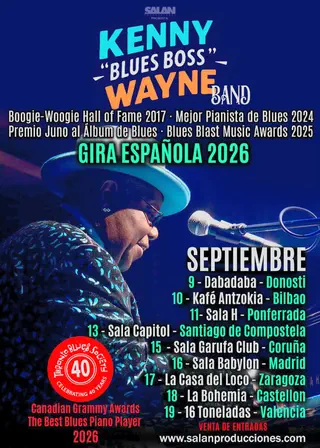
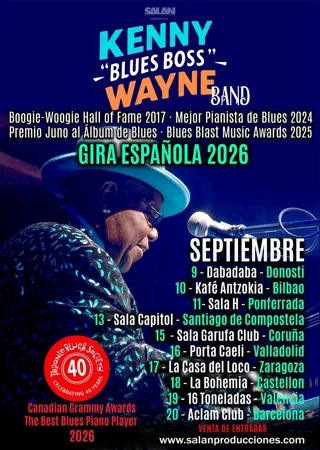
Update Kenny Blues Boss Wayne tour poster

diff --git a/conciertos/2026/kenny-blues-boss-wayne-gira-espana-2026/index.html b/conciertos/2026/kenny-blues-boss-wayne-gira-espana-2026/index.html
@@ -9,14 +9,14 @@
   <meta name="theme-color" content="#0a0a0a">
   <meta name="referrer" content="strict-origin-when-cross-origin">
   <title>Kenny "Blues Boss" Wayne Band – Gira España 2026 – Salan Producciones</title>
-    <meta name="description" content="Kenny 'Blues Boss' Wayne Band en gira por España en septiembre 2026. Boogie-Woogie Hall of Fame 2017 · Mejor Pianista de Blues 2024. Donosti, Bilbao, Madrid, Valencia y más.">
+    <meta name="description" content="Kenny 'Blues Boss' Wayne Band en gira por España en septiembre 2026. Boogie-Woogie Hall of Fame 2017 · Mejor Pianista de Blues 2024. Donosti, Bilbao, Valladolid, Valencia, Barcelona y más.">
     <meta property="og:url" content="https://www.salanproducciones.com/conciertos/2026/kenny-blues-boss-wayne-gira-espana-2026/">
     <meta property="og:title" content="Kenny 'Blues Boss' Wayne Band – Gira España 2026">
-    <meta property="og:description" content="Septiembre 2026 · 9 ciudades · Donosti, Bilbao, Ponferrada, Santiago, Coruña, Madrid, Zaragoza, Castellón, Valencia">
+    <meta property="og:description" content="Septiembre 2026 · 10 ciudades · Donosti, Bilbao, Ponferrada, Santiago, Coruña, Valladolid, Zaragoza, Castellón, Valencia, Barcelona">
     <meta property="og:image" content="https://www.salanproducciones.com/conciertos/2026/kenny-blues-boss-wayne-gira-espana-2026/poster-1024.webp">
     <meta name="twitter:card" content="summary_large_image">
     <meta name="twitter:title" content="Kenny 'Blues Boss' Wayne Band – Gira España 2026">
-    <meta name="twitter:description" content="Septiembre 2026 · 9 ciudades · Donosti, Bilbao, Ponferrada, Santiago, Coruña, Madrid, Zaragoza, Castellón, Valencia">
+    <meta name="twitter:description" content="Septiembre 2026 · 10 ciudades · Donosti, Bilbao, Ponferrada, Santiago, Coruña, Valladolid, Zaragoza, Castellón, Valencia, Barcelona">
     <meta name="twitter:image" content="https://www.salanproducciones.com/conciertos/2026/kenny-blues-boss-wayne-gira-espana-2026/poster-1024.webp">
     <script type="application/ld+json">
     [
@@ -24,7 +24,7 @@
             "@context": "https://schema.org",
             "@type": "MusicEvent",
             "name": "Kenny 'Blues Boss' Wayne Band en Donosti",
-            "description": "Kenny Blues Boss Wayne Band en gira por Espana en septiembre 2026. Boogie-Woogie Hall of Fame 2017, Mejor Pianista de Blues 2024. Donosti, Bilbao, Madrid, Valencia y mas ciudades.",
+            "description": "Kenny Blues Boss Wayne Band en gira por Espana en septiembre 2026. Boogie-Woogie Hall of Fame 2017, Mejor Pianista de Blues 2024. Donosti, Bilbao, Valladolid, Valencia, Barcelona y mas ciudades.",
             "startDate": "2026-09-09T21:00:00+01:00",
             "endDate": "2026-09-09T23:30:00+01:00",
             "eventStatus": "https://schema.org/EventScheduled",
@@ -39,7 +39,7 @@
             "@context": "https://schema.org",
             "@type": "MusicEvent",
             "name": "Kenny 'Blues Boss' Wayne Band en Bilbao",
-            "description": "Kenny Blues Boss Wayne Band en gira por Espana en septiembre 2026. Boogie-Woogie Hall of Fame 2017, Mejor Pianista de Blues 2024. Donosti, Bilbao, Madrid, Valencia y mas ciudades.",
+            "description": "Kenny Blues Boss Wayne Band en gira por Espana en septiembre 2026. Boogie-Woogie Hall of Fame 2017, Mejor Pianista de Blues 2024. Donosti, Bilbao, Valladolid, Valencia, Barcelona y mas ciudades.",
             "startDate": "2026-09-10T21:00:00+01:00",
             "endDate": "2026-09-10T23:30:00+01:00",
             "eventStatus": "https://schema.org/EventScheduled",
@@ -54,7 +54,7 @@
             "@context": "https://schema.org",
             "@type": "MusicEvent",
             "name": "Kenny 'Blues Boss' Wayne Band en Ponferrada",
-            "description": "Kenny Blues Boss Wayne Band en gira por Espana en septiembre 2026. Boogie-Woogie Hall of Fame 2017, Mejor Pianista de Blues 2024. Donosti, Bilbao, Madrid, Valencia y mas ciudades.",
+            "description": "Kenny Blues Boss Wayne Band en gira por Espana en septiembre 2026. Boogie-Woogie Hall of Fame 2017, Mejor Pianista de Blues 2024. Donosti, Bilbao, Valladolid, Valencia, Barcelona y mas ciudades.",
             "startDate": "2026-09-11T21:00:00+01:00",
             "endDate": "2026-09-11T23:30:00+01:00",
             "eventStatus": "https://schema.org/EventScheduled",
@@ -69,7 +69,7 @@
             "@context": "https://schema.org",
             "@type": "MusicEvent",
             "name": "Kenny 'Blues Boss' Wayne Band en Santiago de Compostela",
-            "description": "Kenny Blues Boss Wayne Band en gira por Espana en septiembre 2026. Boogie-Woogie Hall of Fame 2017, Mejor Pianista de Blues 2024. Donosti, Bilbao, Madrid, Valencia y mas ciudades.",
+            "description": "Kenny Blues Boss Wayne Band en gira por Espana en septiembre 2026. Boogie-Woogie Hall of Fame 2017, Mejor Pianista de Blues 2024. Donosti, Bilbao, Valladolid, Valencia, Barcelona y mas ciudades.",
             "startDate": "2026-09-13T21:00:00+01:00",
             "endDate": "2026-09-13T23:30:00+01:00",
             "eventStatus": "https://schema.org/EventScheduled",
@@ -84,7 +84,7 @@
             "@context": "https://schema.org",
             "@type": "MusicEvent",
             "name": "Kenny 'Blues Boss' Wayne Band en A Coruña",
-            "description": "Kenny Blues Boss Wayne Band en gira por Espana en septiembre 2026. Boogie-Woogie Hall of Fame 2017, Mejor Pianista de Blues 2024. Donosti, Bilbao, Madrid, Valencia y mas ciudades.",
+            "description": "Kenny Blues Boss Wayne Band en gira por Espana en septiembre 2026. Boogie-Woogie Hall of Fame 2017, Mejor Pianista de Blues 2024. Donosti, Bilbao, Valladolid, Valencia, Barcelona y mas ciudades.",
             "startDate": "2026-09-15T21:00:00+01:00",
             "endDate": "2026-09-15T23:30:00+01:00",
             "eventStatus": "https://schema.org/EventScheduled",
@@ -98,13 +98,13 @@
         {
             "@context": "https://schema.org",
             "@type": "MusicEvent",
-            "name": "Kenny 'Blues Boss' Wayne Band en Madrid",
-            "description": "Kenny Blues Boss Wayne Band en gira por Espana en septiembre 2026. Boogie-Woogie Hall of Fame 2017, Mejor Pianista de Blues 2024. Donosti, Bilbao, Madrid, Valencia y mas ciudades.",
+            "name": "Kenny 'Blues Boss' Wayne Band en Valladolid",
+            "description": "Kenny Blues Boss Wayne Band en gira por Espana en septiembre 2026. Boogie-Woogie Hall of Fame 2017, Mejor Pianista de Blues 2024. Donosti, Bilbao, Valladolid, Valencia, Barcelona y mas ciudades.",
             "startDate": "2026-09-16T21:00:00+01:00",
             "endDate": "2026-09-16T23:30:00+01:00",
             "eventStatus": "https://schema.org/EventScheduled",
             "eventAttendanceMode": "https://schema.org/OfflineEventAttendanceMode",
-            "location": { "@type": "Place", "name": "Sala Babylon", "address": { "@type": "PostalAddress", "addressLocality": "Madrid", "addressRegion": "Comunidad de Madrid", "addressCountry": "ES" } },
+            "location": { "@type": "Place", "name": "Porta Caeli", "address": { "@type": "PostalAddress", "addressLocality": "Valladolid", "addressRegion": "Castilla y León", "addressCountry": "ES" } },
             "image": "https://www.salanproducciones.com/conciertos/2026/kenny-blues-boss-wayne-gira-espana-2026/poster-1024.webp",
             "organizer": { "@type": "Organization", "name": "Salan Producciones", "url": "https://salanproducciones.com" },
             "performer": { "@type": "MusicGroup", "name": "Kenny 'Blues Boss' Wayne Band" },
@@ -114,7 +114,7 @@
             "@context": "https://schema.org",
             "@type": "MusicEvent",
             "name": "Kenny 'Blues Boss' Wayne Band en Zaragoza",
-            "description": "Kenny Blues Boss Wayne Band en gira por Espana en septiembre 2026. Boogie-Woogie Hall of Fame 2017, Mejor Pianista de Blues 2024. Donosti, Bilbao, Madrid, Valencia y mas ciudades.",
+            "description": "Kenny Blues Boss Wayne Band en gira por Espana en septiembre 2026. Boogie-Woogie Hall of Fame 2017, Mejor Pianista de Blues 2024. Donosti, Bilbao, Valladolid, Valencia, Barcelona y mas ciudades.",
             "startDate": "2026-09-17T21:00:00+01:00",
             "endDate": "2026-09-17T23:30:00+01:00",
             "eventStatus": "https://schema.org/EventScheduled",
@@ -129,7 +129,7 @@
             "@context": "https://schema.org",
             "@type": "MusicEvent",
             "name": "Kenny 'Blues Boss' Wayne Band en Castellón",
-            "description": "Kenny Blues Boss Wayne Band en gira por Espana en septiembre 2026. Boogie-Woogie Hall of Fame 2017, Mejor Pianista de Blues 2024. Donosti, Bilbao, Madrid, Valencia y mas ciudades.",
+            "description": "Kenny Blues Boss Wayne Band en gira por Espana en septiembre 2026. Boogie-Woogie Hall of Fame 2017, Mejor Pianista de Blues 2024. Donosti, Bilbao, Valladolid, Valencia, Barcelona y mas ciudades.",
             "startDate": "2026-09-18T21:00:00+01:00",
             "endDate": "2026-09-18T23:30:00+01:00",
             "eventStatus": "https://schema.org/EventScheduled",
@@ -144,12 +144,27 @@
             "@context": "https://schema.org",
             "@type": "MusicEvent",
             "name": "Kenny 'Blues Boss' Wayne Band en Valencia",
-            "description": "Kenny Blues Boss Wayne Band en gira por Espana en septiembre 2026. Boogie-Woogie Hall of Fame 2017, Mejor Pianista de Blues 2024. Donosti, Bilbao, Madrid, Valencia y mas ciudades.",
+            "description": "Kenny Blues Boss Wayne Band en gira por Espana en septiembre 2026. Boogie-Woogie Hall of Fame 2017, Mejor Pianista de Blues 2024. Donosti, Bilbao, Valladolid, Valencia, Barcelona y mas ciudades.",
             "startDate": "2026-09-19T21:00:00+01:00",
             "endDate": "2026-09-19T23:30:00+01:00",
             "eventStatus": "https://schema.org/EventScheduled",
             "eventAttendanceMode": "https://schema.org/OfflineEventAttendanceMode",
             "location": { "@type": "Place", "name": "16 Toneladas", "address": { "@type": "PostalAddress", "addressLocality": "Valencia", "addressRegion": "Comunitat Valenciana", "addressCountry": "ES" } },
+            "image": "https://www.salanproducciones.com/conciertos/2026/kenny-blues-boss-wayne-gira-espana-2026/poster-1024.webp",
+            "organizer": { "@type": "Organization", "name": "Salan Producciones", "url": "https://salanproducciones.com" },
+            "performer": { "@type": "MusicGroup", "name": "Kenny 'Blues Boss' Wayne Band" },
+            "offers": { "@type": "Offer", "url": "https://tickety.es/entity/kenny-blues-boss-wayne?utm_source=landing&utm_medium=web&utm_campaign=kenny-blues-boss-wayne-gira-espana-2026", "price": "27.25", "priceCurrency": "EUR", "availability": "https://schema.org/InStock", "validFrom": "2026-01-01T00:00:00+01:00" }
+        },
+        {
+            "@context": "https://schema.org",
+            "@type": "MusicEvent",
+            "name": "Kenny 'Blues Boss' Wayne Band en Barcelona",
+            "description": "Kenny Blues Boss Wayne Band en gira por Espana en septiembre 2026. Boogie-Woogie Hall of Fame 2017, Mejor Pianista de Blues 2024. Donosti, Bilbao, Valladolid, Valencia, Barcelona y mas ciudades.",
+            "startDate": "2026-09-20T21:00:00+01:00",
+            "endDate": "2026-09-20T23:30:00+01:00",
+            "eventStatus": "https://schema.org/EventScheduled",
+            "eventAttendanceMode": "https://schema.org/OfflineEventAttendanceMode",
+            "location": { "@type": "Place", "name": "Aclam Club", "address": { "@type": "PostalAddress", "addressLocality": "Barcelona", "addressRegion": "Cataluña", "addressCountry": "ES" } },
             "image": "https://www.salanproducciones.com/conciertos/2026/kenny-blues-boss-wayne-gira-espana-2026/poster-1024.webp",
             "organizer": { "@type": "Organization", "name": "Salan Producciones", "url": "https://salanproducciones.com" },
             "performer": { "@type": "MusicGroup", "name": "Kenny 'Blues Boss' Wayne Band" },
@@ -361,7 +376,7 @@
 
         <!-- Poster -->
         <div class="tour-poster">
-            <img src="poster-768.webp" srcset="poster-320.webp 320w, poster-480.webp 480w, poster-768.webp 768w" sizes="(max-width: 768px) 92vw, 420px" alt="Kenny 'Blues Boss' Wayne Band – Gira España Septiembre 2026" loading="eager" width="814" height="1140" fetchpriority="high" decoding="async">
+            <img src="poster-768.webp" srcset="poster-320.webp 320w, poster-480.webp 480w, poster-768.webp 768w" sizes="(max-width: 768px) 92vw, 420px" alt="Kenny 'Blues Boss' Wayne Band – Gira España Septiembre 2026" loading="eager" width="768" height="1080" fetchpriority="high" decoding="async">
         </div>
 
         <!-- Info + city selector -->
@@ -369,7 +384,7 @@
             <div>
                 <span class="eyebrow">Salan Producciones presenta</span>
                 <h1 class="event-title" style="margin-top: 10px;">Kenny "Blues Boss" Wayne Band</h1>
-                <p class="event-guest"><span>Gira España</span> Septiembre 2026 · 9 ciudades</p>
+                <p class="event-guest"><span>Gira España</span> Septiembre 2026 · 10 ciudades</p>
             </div>
 
             <!-- City pills -->
@@ -381,10 +396,11 @@
                     <button class="tour-city-btn" data-id="ponferrada" role="tab">11 Sep · Ponferrada</button>
                     <button class="tour-city-btn" data-id="santiago"   role="tab">13 Sep · Santiago</button>
                     <button class="tour-city-btn" data-id="coruna"     role="tab">15 Sep · A Coruña</button>
-                    <button class="tour-city-btn" data-id="madrid"     role="tab">16 Sep · Madrid</button>
+                    <button class="tour-city-btn" data-id="valladolid" role="tab">16 Sep · Valladolid</button>
                     <button class="tour-city-btn" data-id="zaragoza"   role="tab">17 Sep · Zaragoza</button>
                     <button class="tour-city-btn" data-id="castellon"  role="tab">18 Sep · Castellón</button>
                     <button class="tour-city-btn" data-id="valencia"   role="tab">19 Sep · Valencia</button>
+                    <button class="tour-city-btn" data-id="barcelona"  role="tab">20 Sep · Barcelona</button>
                 </div>
             </div>
 
@@ -418,10 +434,11 @@
         ponferrada: { name: 'Ponferrada',             date: '11 de septiembre · 21:00h', venue: 'Sala H · Ponferrada',            url: TICKETY   },
         santiago:   { name: 'Santiago de Compostela', date: '13 de septiembre · 21:00h', venue: 'Sala Capitol · Santiago',        url: SANTIAGO  },
         coruna:     { name: 'A Coruña',               date: '15 de septiembre · 21:00h', venue: 'Sala Garufa Club · A Coruña',    url: TICKETY   },
-        madrid:     { name: 'Madrid',                 date: '16 de septiembre · 21:00h', venue: 'Sala Babylon · Madrid',          url: TICKETY   },
+        valladolid: { name: 'Valladolid',             date: '16 de septiembre · 21:00h', venue: 'Porta Caeli · Valladolid',       url: TICKETY   },
         zaragoza:   { name: 'Zaragoza',               date: '17 de septiembre · 21:00h', venue: 'La Casa del Loco · Zaragoza',    url: TICKETY   },
         castellon:  { name: 'Castellón',              date: '18 de septiembre · 21:00h', venue: 'La Bohemia · Castellón',         url: TICKETY   },
-        valencia:   { name: 'Valencia',               date: '19 de septiembre · 21:00h', venue: '16 Toneladas · Valencia',        url: TICKETY   }
+        valencia:   { name: 'Valencia',               date: '19 de septiembre · 21:00h', venue: '16 Toneladas · Valencia',        url: TICKETY   },
+        barcelona:  { name: 'Barcelona',              date: '20 de septiembre · 21:00h', venue: 'Aclam Club · Barcelona',         url: TICKETY   }
     };
 
     function activate(id) {
@@ -533,7 +550,7 @@
     <div class="final-cta">
         <div class="final-box">
             <h2>No te quedes fuera</h2>
-            <p>9 ciudades. Salas íntimas. El boogie-woogie más poderoso del mundo en directo.</p>
+            <p>10 ciudades. Salas íntimas. El boogie-woogie más poderoso del mundo en directo.</p>
             <a href="https://tickety.es/entity/kenny-blues-boss-wayne?utm_source=landing&utm_medium=web&utm_campaign=kenny-blues-boss-wayne-gira-espana-2026"
                class="btn-primary" target="_blank" rel="noopener noreferrer">
                 🎟 Comprar Entradas
@@ -551,14 +568,14 @@
         <p style="color: var(--muted); font-size: .9rem; line-height: 1.9; margin-bottom: 12px;">
             Salan Producciones trae a Kenny "Blues Boss" Wayne Band en su primera gran gira española.
             De la mano de <strong style="color: var(--text)">Juan Salán</strong>, promotor musical de referencia
-            con más de 38 años de trayectoria en Canarias y España, esta gira recorre 9 ciudades en septiembre de 2026:
-            Donosti, Bilbao, Ponferrada, Santiago de Compostela, A Coruña, Madrid, Zaragoza, Castellón y Valencia.
+            con más de 38 años de trayectoria en Canarias y España, esta gira recorre 10 ciudades en septiembre de 2026:
+            Donosti, Bilbao, Ponferrada, Santiago de Compostela, A Coruña, Valladolid, Zaragoza, Castellón, Valencia y Barcelona.
         </p>
         <p style="color: var(--muted); font-size: .9rem; line-height: 1.9; margin-bottom: 12px;">
             Si buscas <strong style="color: var(--text)">conciertos de blues en España</strong>,
-            <strong style="color: var(--text)">boogie-woogie en Madrid</strong>,
+            <strong style="color: var(--text)">boogie-woogie en Valladolid</strong>,
             <strong style="color: var(--text)">música en directo en Bilbao</strong> o
-            <strong style="color: var(--text)">piano blues en Valencia</strong>,
+            <strong style="color: var(--text)">piano blues en Barcelona</strong>,
             esta es tu oportunidad. Kenny Wayne es uno de los últimos grandes maestros del piano blues clásico
             en activo, con una energía en directo que deja sin palabras.
         </p>

diff --git a/proximos-conciertos/index.html b/proximos-conciertos/index.html
@@ -130,7 +130,7 @@
           "@type": "MusicEvent",
           "name": "Kenny \"Blues Boss\" Wayne Band — Gira España 2026",
           "startDate": "2026-09-09",
-          "endDate": "2026-09-19",
+          "endDate": "2026-09-20",
           "eventStatus": "https://schema.org/EventScheduled",
           "eventAttendanceMode": "https://schema.org/OfflineEventAttendanceMode",
           "url": "https://www.salanproducciones.com/conciertos/2026/kenny-blues-boss-wayne-gira-espana-2026/",
@@ -138,8 +138,9 @@
           "location": [
             {"@type": "Place", "name": "Donosti", "address": {"@type": "PostalAddress", "addressLocality": "San Sebastián", "addressCountry": "ES"}},
             {"@type": "Place", "name": "Bilbao", "address": {"@type": "PostalAddress", "addressLocality": "Bilbao", "addressCountry": "ES"}},
-            {"@type": "Place", "name": "Madrid", "address": {"@type": "PostalAddress", "addressLocality": "Madrid", "addressCountry": "ES"}},
-            {"@type": "Place", "name": "Valencia", "address": {"@type": "PostalAddress", "addressLocality": "Valencia", "addressCountry": "ES"}}
+            {"@type": "Place", "name": "Valladolid", "address": {"@type": "PostalAddress", "addressLocality": "Valladolid", "addressCountry": "ES"}},
+            {"@type": "Place", "name": "Valencia", "address": {"@type": "PostalAddress", "addressLocality": "Valencia", "addressCountry": "ES"}},
+            {"@type": "Place", "name": "Barcelona", "address": {"@type": "PostalAddress", "addressLocality": "Barcelona", "addressCountry": "ES"}}
           ],
           "performer": {"@type": "MusicGroup", "name": "Kenny Blues Boss Wayne Band"},
           "organizer": {"@type": "Organization", "name": "Salán Producciones", "url": "https://www.salanproducciones.com"},
@@ -425,13 +426,13 @@
 
       <article class="concert-card reveal">
         <div class="concert-card-img">
-          <img src="/conciertos/2026/kenny-blues-boss-wayne-gira-espana-2026/poster-768.webp" srcset="/conciertos/2026/kenny-blues-boss-wayne-gira-espana-2026/poster-320.webp 320w, /conciertos/2026/kenny-blues-boss-wayne-gira-espana-2026/poster-480.webp 480w, /conciertos/2026/kenny-blues-boss-wayne-gira-espana-2026/poster-768.webp 768w" sizes="(max-width: 700px) 92vw, (max-width: 1100px) 45vw, 320px" alt="Cartel Kenny Blues Boss Wayne Band — 9–19 Septiembre 2026" loading="lazy" width="400" height="533" decoding="async">
+          <img src="/conciertos/2026/kenny-blues-boss-wayne-gira-espana-2026/poster-768.webp" srcset="/conciertos/2026/kenny-blues-boss-wayne-gira-espana-2026/poster-320.webp 320w, /conciertos/2026/kenny-blues-boss-wayne-gira-espana-2026/poster-480.webp 480w, /conciertos/2026/kenny-blues-boss-wayne-gira-espana-2026/poster-768.webp 768w" sizes="(max-width: 700px) 92vw, (max-width: 1100px) 45vw, 320px" alt="Cartel Kenny Blues Boss Wayne Band — 9–20 Septiembre 2026" loading="lazy" width="400" height="563" decoding="async">
           <span class="concert-card-badge">Gira España</span>
         </div>
         <div class="concert-card-body">
-          <div class="concert-card-date">9–19 Septiembre 2026</div>
+          <div class="concert-card-date">9–20 Septiembre 2026</div>
           <h3 class="concert-card-title">Kenny "Blues Boss" Wayne Band</h3>
-          <p class="concert-card-venue">Gira España — Donosti, Bilbao, Ponferrada, Santiago, Coruña, Madrid, Zaragoza, Castellón, Valencia</p>
+          <p class="concert-card-venue">Gira España — Donosti, Bilbao, Ponferrada, Santiago, Coruña, Valladolid, Zaragoza, Castellón, Valencia, Barcelona</p>
           <p class="concert-card-price"><strong>27,25€</strong> G.G incluidos</p>
           <div style="display:flex;gap:8px;margin-top:8px">
             <a href="/conciertos/2026/kenny-blues-boss-wayne-gira-espana-2026/" class="btn btn-outline" style="flex:1;text-align:center">+ Info</a>

diff --git a/index.html b/index.html
@@ -270,9 +270,9 @@
       <a href="/conciertos/2026/kenny-blues-boss-wayne-gira-espana-2026/" class="carousel-item" aria-label="Kenny Blues Boss Wayne — Gira España Sep 2026">
         <img src="/conciertos/2026/kenny-blues-boss-wayne-gira-espana-2026/poster-320.webp" alt="Kenny Blues Boss Wayne Band gira España 2026" loading="lazy" width="320" height="427">
         <div class="carousel-item-info">
-          <div class="carousel-item-date">9–19 Sep 2026</div>
+          <div class="carousel-item-date">9–20 Sep 2026</div>
           <div class="carousel-item-title">Kenny "Blues Boss" Wayne</div>
-          <div class="carousel-item-venue">Donosti · Bilbao · Madrid · Valencia…</div>
+          <div class="carousel-item-venue">Donosti · Bilbao · Valencia · Barcelona…</div>
         </div>
       </a>
 
@@ -398,13 +398,13 @@
 
       <article class="concert-card reveal">
         <div class="concert-card-img">
-          <img src="/conciertos/2026/kenny-blues-boss-wayne-gira-espana-2026/poster-768.webp" srcset="/conciertos/2026/kenny-blues-boss-wayne-gira-espana-2026/poster-320.webp 320w, /conciertos/2026/kenny-blues-boss-wayne-gira-espana-2026/poster-480.webp 480w, /conciertos/2026/kenny-blues-boss-wayne-gira-espana-2026/poster-768.webp 768w" sizes="(max-width: 700px) 92vw, (max-width: 1100px) 45vw, 320px" alt="Cartel Kenny Blues Boss Wayne Band — 9–19 Septiembre 2026" loading="lazy" width="400" height="533" decoding="async">
+          <img src="/conciertos/2026/kenny-blues-boss-wayne-gira-espana-2026/poster-768.webp" srcset="/conciertos/2026/kenny-blues-boss-wayne-gira-espana-2026/poster-320.webp 320w, /conciertos/2026/kenny-blues-boss-wayne-gira-espana-2026/poster-480.webp 480w, /conciertos/2026/kenny-blues-boss-wayne-gira-espana-2026/poster-768.webp 768w" sizes="(max-width: 700px) 92vw, (max-width: 1100px) 45vw, 320px" alt="Cartel Kenny Blues Boss Wayne Band — 9–20 Septiembre 2026" loading="lazy" width="400" height="563" decoding="async">
           <span class="concert-card-badge">Gira España</span>
         </div>
         <div class="concert-card-body">
-          <div class="concert-card-date">9–19 Septiembre 2026</div>
+          <div class="concert-card-date">9–20 Septiembre 2026</div>
           <h3 class="concert-card-title">Kenny "Blues Boss" Wayne Band</h3>
-          <p class="concert-card-venue">Gira España — Donosti, Bilbao, Ponferrada, Santiago, Coruña, Madrid, Zaragoza, Castellón, Valencia</p>
+          <p class="concert-card-venue">Gira España — Donosti, Bilbao, Ponferrada, Santiago, Coruña, Valladolid, Zaragoza, Castellón, Valencia, Barcelona</p>
           <p class="concert-card-price"><strong>27,25€</strong> G.G incluidos</p>
           <div style="display:flex;gap:8px;margin-top:8px">
             <a href="/conciertos/2026/kenny-blues-boss-wayne-gira-espana-2026/" class="btn btn-outline" style="flex:1;text-align:center">+ Info</a>
